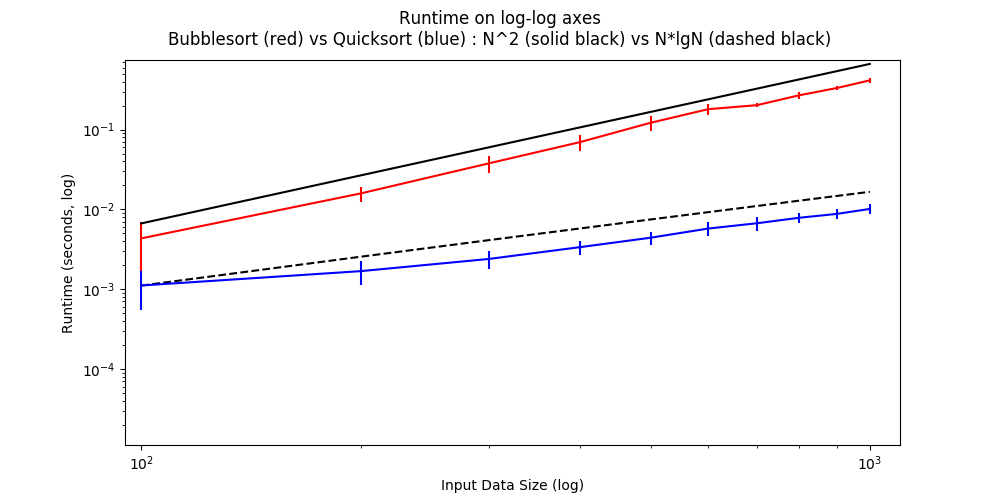
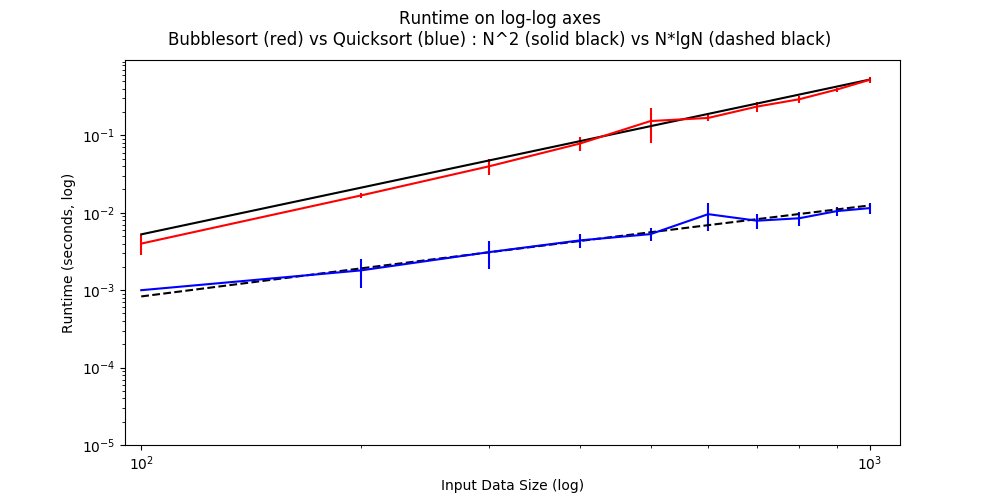
Revert to custom progress bar

diff --git a/sortingComplexity/run.py b/sortingComplexity/run.py
@@ -45,21 +45,21 @@ def complexity_experiment():
     conditionals = np.zeros((2,len(inputDataSizes),repsPerInputSize))
     time = np.zeros((2,len(inputDataSizes),repsPerInputSize))
     
-#    progress = 0
-    bar = pb.ProgressBar(widgets=[
-        ' [', pb.Timer(), '] ',
-        pb.Bar(),
-        ' (', pb.ETA(), ') ',
-    ])
+    progress = 0
+#     bar = pb.ProgressBar(widgets=[
+#         ' [', pb.Timer(), '] ',
+#         pb.Bar(),
+#         ' (', pb.ETA(), ') ',
+#     ])
     
-    checkpoints = {'0':4,'1':8,'2':16,'3':24,'4':36,'5':48,'6':60,'7':72,'8':84,'9':100}
+    checkpoints = {'0':1,'1':3,'2':6,'3':12,'4':20,'5':30,'6':44,'7':62,'8':81,'9':100}
 
     print("\n------------------------------------------------\n")        
     print("\tTesting Bubblesort Complexity:")
     print("\tinputDataSizes = ", inputDataSizes)
     print("\trepsPerInputSize = ", repsPerInputSize,"\n")
 
-    for i in bar(range(0,len(inputDataSizes))):
+    for i in range(0,len(inputDataSizes)):
 
         #run bubblesort many times for each input size
         for j in range(0,repsPerInputSize):
@@ -77,23 +77,23 @@ def complexity_experiment():
             conditionals[0,i,j] = c
             assignments[0,i,j,] = a
             
-#         progress = checkpoints[str(i)]
-#         if str(i) in checkpoints.keys():
-#             update_progress(progress)
+        progress = checkpoints[str(i)]
+        if str(i) in checkpoints.keys():
+            update_progress(progress)
     
     print("\n------------------------------------------------\n")        
     print("\tTesting Quicksort Complexity:")
     print("\tinputDataSizes = ", inputDataSizes)
     print("\trepsPerInputSize = ", repsPerInputSize,"\n")
     
-#    progress = 0
-    bar = pb.ProgressBar(widgets=[
-        ' [', pb.Timer(), '] ',
-        pb.Bar(),
-        ' (', pb.ETA(), ') ',
-    ])
+    progress = 0
+#     bar = pb.ProgressBar(widgets=[
+#         ' [', pb.Timer(), '] ',
+#         pb.Bar(),
+#         ' (', pb.ETA(), ') ',
+#     ])
 
-    for i in bar(range(0,len(inputDataSizes))):
+    for i in range(0,len(inputDataSizes)):
     
         #run quicksort many times for each input size
         for j in range(0,repsPerInputSize):
@@ -111,9 +111,9 @@ def complexity_experiment():
             conditionals[1,i,j] = c
             assignments[1,i,j] = a
 
-#         progress = checkpoints[str(i)]    
-#         if str(i) in checkpoints.keys():
-#             update_progress(progress)
+        progress = checkpoints[str(i)]    
+        if str(i) in checkpoints.keys():
+            update_progress(progress)
     
     print("\n------------------------------------------------\n")        
     
@@ -235,9 +235,9 @@ def complexity_visualize(complexity, inputData):
     
     #generate approximate functions for N^2 and N*lgN times (hand-tuned constants)
     
-    approxSquareComparison = np.array(inputData['sizes'])**2/(1500000.)
+    approxSquareComparison = np.array(inputData['sizes'])**2/(1900000.)
     logInput = [log(y,2) for y in inputData['sizes']]
-    nLogNComparison = np.array(inputData['sizes'])*np.array(logInput)/(600000.)
+    nLogNComparison = np.array(inputData['sizes'])*np.array(logInput)/(800000.)
     
     #plot data alongside estimates
     
